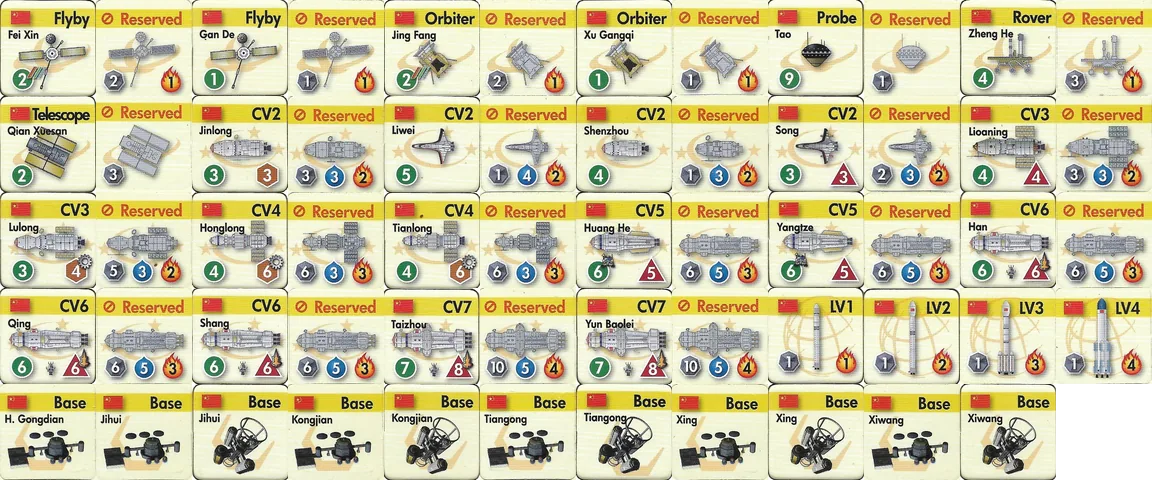
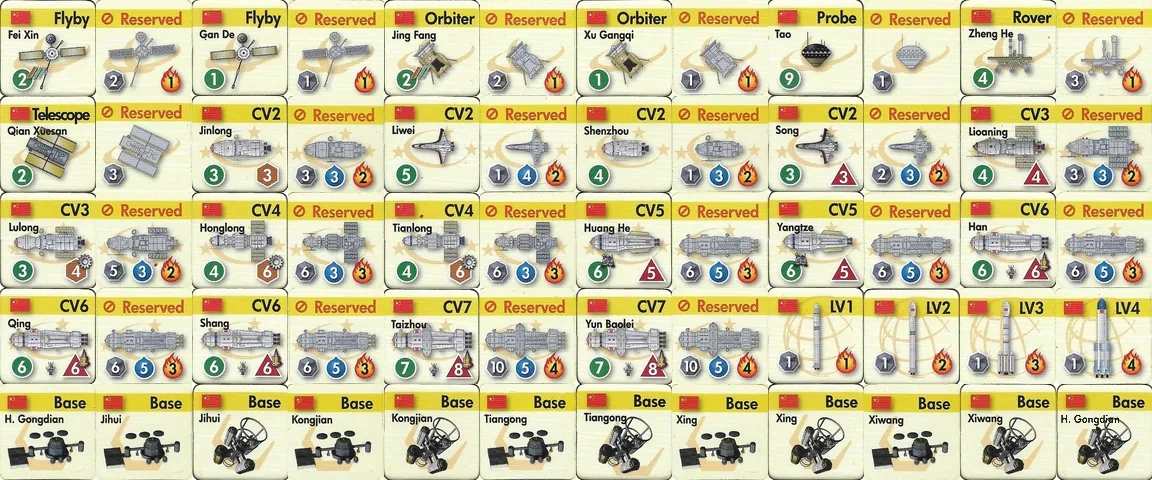
Honse Gongdian: base counter lookup fixed and missing orbital face made
Claude-Session: https://claude.ai/code/session_01638FrLPem3rRU67rNmrKr7

Changed region(s): [[0.9062, 0.7812, 1.0, 1.0]]

diff --git a/index.html b/index.html
@@ -418,7 +418,7 @@ function paintExplore() {
 const STATION_ALT = { as: true, sa: true }; // factions whose alternate base image is the station
 function baseKey(b, f) {
   f = f || G.f;
-  const fr = ATL[f].fr, keys = Object.keys(fr).filter(k => k.startsWith('Base|' + b.name.slice(0, 4)));
+  const fr = ATL[f].fr, pre = b.name === 'Honse Gongdian' ? 'H Go' : b.name.slice(0, 4), keys = Object.keys(fr).filter(k => k.startsWith('Base|' + pre));
   const plain = keys.find(k => !/ (b|rv|bi|orbit)$/i.test(k)) || keys[0], alt = keys.find(k => k !== plain) || plain;
   const station = E.basePos(b) === 'orbit';
   return (station !== !!STATION_ALT[f]) ? plain : alt;
@@ -1426,7 +1426,7 @@ function bigCounter(f, key, size) {
 }
 // the two counter faces of a base for this faction: surface and orbital art (the same pick as baseKey)
 function baseArt(f, name, orbital) {
-  const fr = ATL[f].fr, keys = Object.keys(fr).filter(k => k.startsWith('Base|' + name.slice(0, 4)));
+  const fr = ATL[f].fr, keys = Object.keys(fr).filter(k => k.startsWith('Base|' + (name === 'Honse Gongdian' ? 'H Go' : name.slice(0, 4))));
   const plain = keys.find(k => !/ (b|rv|bi|orbit)$/i.test(k)) || keys[0], alt = keys.find(k => k !== plain) || plain;
   return (orbital !== !!STATION_ALT[f]) ? plain : alt;
 }
